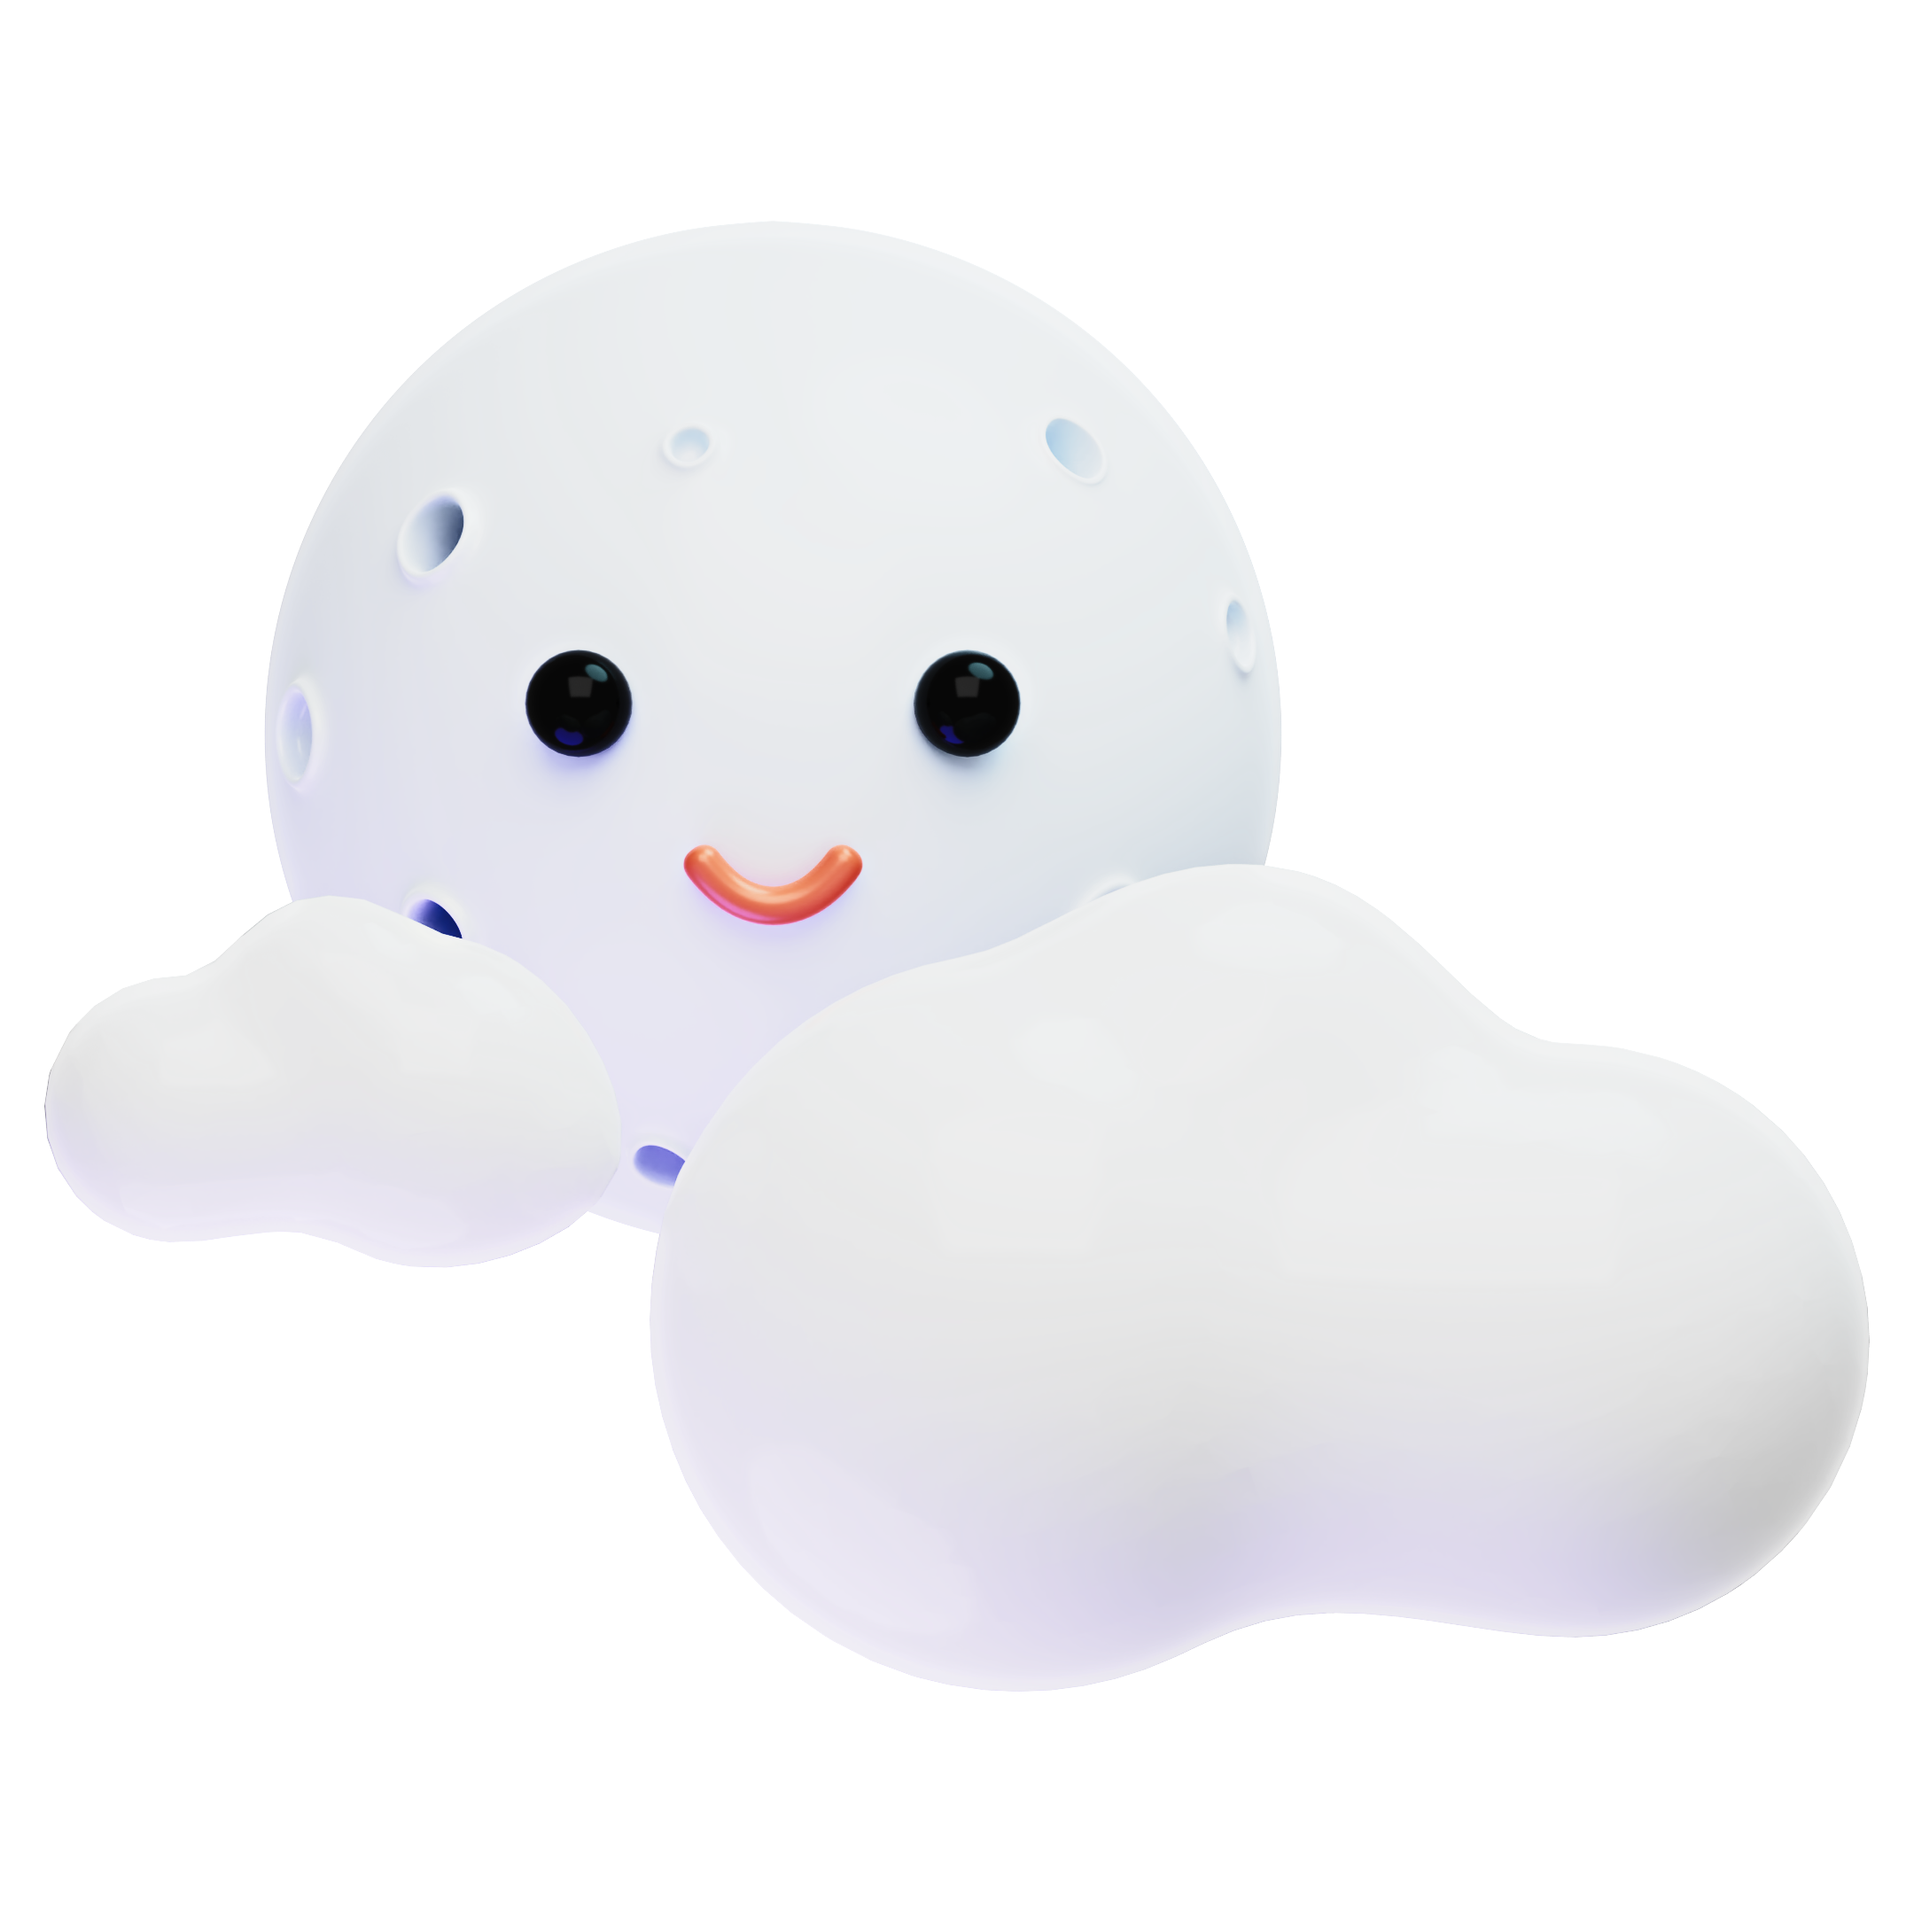
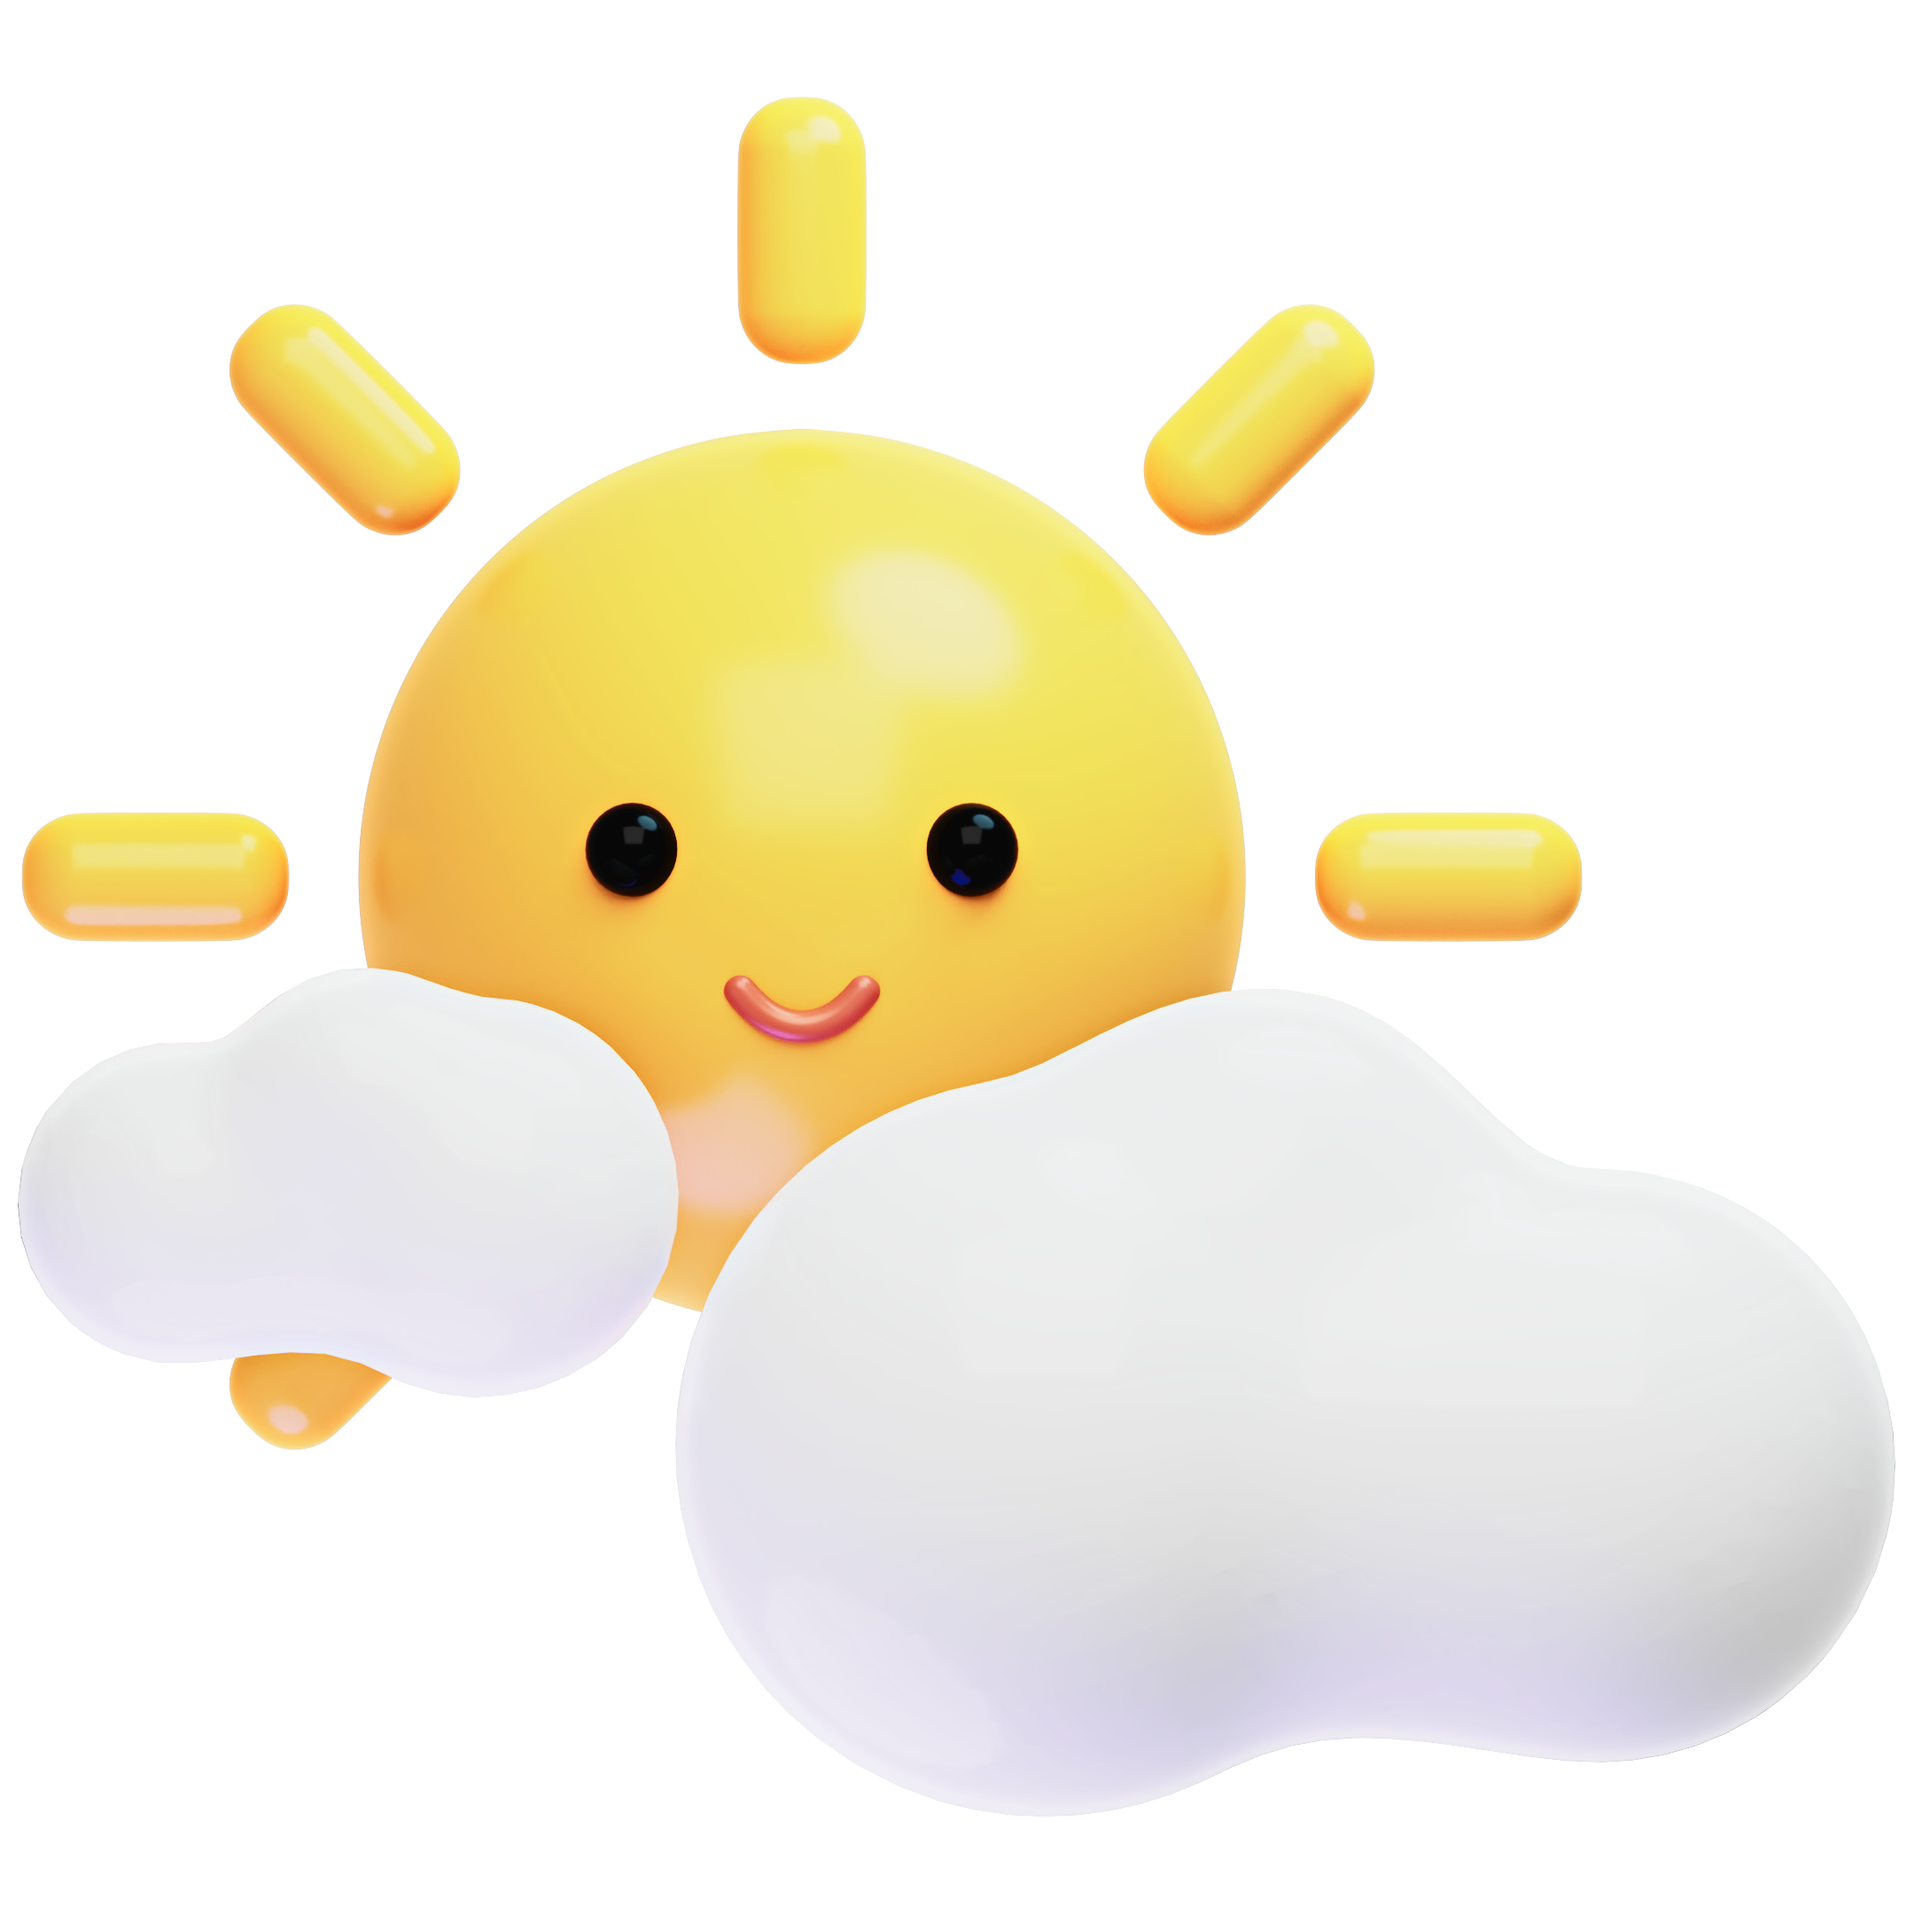
update

Changed region(s): [[0.0, 0.031, 0.8375, 0.7755], [0.3722, 0.6204, 0.9926, 0.9616]]

diff --git a/src/app/page.js b/src/app/page.js
@@ -1,15 +1,13 @@
-"use client"
-import { useEffect, useState } from "react";
-import react from "react";
+"use client";
+import { useState } from "react";
 
 export default function WeatherApp() {
   const [city, setCity] = useState("");
   const [weather, setWeather] = useState(null);
   const [error, setError] = useState("");
 
+  const API_KEY = "408d4e797f164849c68729e28200d6ad";
 
-
-  const API_KEY = "408d4e797f164849c68729e28200d6ad"
   const fetchWeather = async () => {
     if (!city) {
       setError("Please enter a city name.");
@@ -18,70 +16,134 @@ export default function WeatherApp() {
     setError(""); 
     try {
       const response = await fetch(
+      
         `https://api.openweathermap.org/data/2.5/weather?q=${city}&units=metric&appid=${API_KEY}`
       );
       if (!response.ok) {
         throw new Error("City not found");
       }
       const data = await response.json();
-      console.log("Weather Data:", data); 
       setWeather(data);
+      console.log(data)
     } catch (err) {
       setError(err.message);
       setWeather(null);
+    
+    }
+  }
+  
+
+  const getWeatherImage = (weatherCondition) => {
+    switch ( weatherCondition) {
+      case "Clear":
+        return "sun.png"; 
+      case "Clouds":
+        return "Clouds.png"; 
+      case "Rain":
+        return "Rain.png"; 
+      case "Snow":
+        return "snow.png"; 
+      case "Thunderstorm":
+        return "thunderstorm.png"; 
+      case "Drizzle":
+        return "Rain.png"; 
+      default:
+        return "sun.png"; 
     }
   };
-  
-
-  
 
 
-  // useEffect(() => {
-  //   async function fetchData() {
-  //     const API_KEY = process.env.NEXT_PUBLIC_WEATHER_API_KEY; // Store the API key in an environment variable
-  //     const lat = 47.9077;
-  //     const lon = 106.8832;
-  //     const cityName;
+  const getNightImage = (weatherCondition) => {
+    switch ( weatherCondition) {
+      case "Clear":
+        return "Nightsun.png"; 
+      case "Clouds":
+        return "NightCloud.png"; 
+      case "Rain":
+        return "NightRain.png"; 
+      case "Snow":
+        return "Nightsnow.png"; 
+      case "Thunderstorm":
+        return "Nightthunderstorm.png"; 
+      case "Drizzle":
+        return "NightRain.png"; 
+      default:
+        return "Nightsun.png"; 
+    }
+  };
 
-  //     try {
-  //       const response = await fetch(
-  //         `https://api.openweathermap.org/data/2.5/weather?q={city name}&appid={API key}`
-  //       );
+    const handleKeyDown = (e) => {
+      if (e.key === "Enter") {
+        fetchWeather();
+      }
 
-  //       if (!response.ok) {
-  //         throw new Error("Failed to fetch weather data");
-  //       }
-
-  //       const data = await response.json();
-  //       setWeatherData(data);
-  //     } catch (error) {
-  //       setError(error.message);
-  //     }
-  //   }
-
-  //   fetchData();
-  // }, []);
+  };
 
   return (
-<div className="w-full h-screen z-0 bg-black  flex overflow-x-hidden overflow-y-hidden"> 
-<div className="justify-center items-center flex"> 
-
-  <div className="rounded-lg bg-weather w-night-800 h-night-1200 top-40 left-36  z-10 flex justify-center  items-center "> 
-    <input onChange={(e) => setCity(e.target.value)}  value={city} placeholder="Enter a city" className="absolute z-10  h-input w-input left-inputLeft top-7 rounded-lg value={city}"></input>
-    <button onClick={fetchWeather}  className="absolute top-1">Get Weather</button>
-    <div className="  bg-white bg-opacity-75 h-city w-city justify-self-center align-self justify-center items-center flex rounded-xl relative" >
-     <div className="  text-black bg-custom-gradient bg-clip-text text-transparent absolute font-bold text-city top-cityTop left-cityLeft ">{weather.name}</div> 
-     <h1 className=" text-9xl absolute font-bold  bottom-temp left-10 bg-gradient-to-r from-slate-400 via-slate-800 to-slate-900 bg-clip-text text-transparent"> {Math.round(weather.main.temp)}°C</h1>
-     <div className="text-mood font-bold text-moods bottom-moodBottom left-moodLeft absolute">{weather.weather[0].main}</div>
-     <img className=" absolute w-64 h-64 bottom-image-bottom" src="sun.png"></img>
+    <div className="w-full h-screen z-0 bg-black flex overflow-x-hidden justify-center overflow-y-hidden flex">
+      <div className="justify-center items-center flex">
+        <div className="rounded-lg bg-weather w-night-800 h-night-1200 top-40 left-36 z-10 flex justify-center items-center ">
+          <input
+            onChange={(e) => setCity(e.target.value)}
+            value={city}
+            onKeyDown={handleKeyDown}
+            placeholder="Search"
+            className="absolute z-10 h-input w-input left-input Left top-7 rounded-3xl box-shadow: 0px 12px 24px 0px #0000000F font-xl text-black text-3xl focus:outline-none"
+          />
+          {/* <button
+            onClick={fetchWeather}
+            className="absolute top-1 bg-blue-500 text-white px-4 py-2 rounded-lg"
+          >
+            Get Weather
+          </button> */}
+          {error && <div className="text-red-500 absolute top-16">{error}</div>}
+          {weather && (
+            <div className="bg-white bg-opacity-75 h-city w-city flex justify-center items-center rounded-xl relative">
+              <div className="text-black bg-custom-gradient bg-clip-text text-transparent absolute font-bold text-city top-cityTop left-cityLeft">
+                {weather.name}
+              </div>
+              <h1 className="text-9xl absolute font-bold bottom-temp left-10 bg-gradient-to-r from-slate-400 via-slate-800 to-slate-900 bg-clip-text text-transparent text-black">
+                {Math.round(weather.main.temp)}°
+              </h1>
+              <div className="text-mood font-bold text-moods bottom-moodBottom left-moodLeft absolute">
+                {weather.weather[0].main}
+              </div>
+              <img
+                className="absolute w-64 h-64 bottom-image-bottom"
+                src={getWeatherImage(weather.weather[0].main)}></img>
+            </div>
+          )}
+        </div>
+        <div className="rounded-lg bg-nightColor h-night-1200 w-night-800 right-36 top-40 my-28 z-10 top-40 left-36 z-10 flex justify-center items-center ">
+       
+          {/* <button
+            onClick={fetchWeather}
+            className="absolute top-1 bg-blue-500 text-white px-4 py-2 rounded-lg"
+          >
+            Get Weather
+          </button> */}
+          {error && <div className="text-red-500 absolute top-16">{error}</div>}
+          {weather && (
+            <div className="bg-night bg-opacity-75 h-city w-city flex justify-center items-center rounded-xl relative">
+              <div className="text-white bg-custom-gradient bg-clip-text text-transparent absolute font-bold text-city top-cityTop left-cityLeft">
+                {weather.name}
+              </div>
+              <h1 className="text-9xl absolute font-bold bottom-temp left-10 bg-gradient-to-r from-slate-400 via-slate-800 to-slate-900 bg-clip-text text-transparent text-white">
+                {Math.round(weather.main.temp)}°
+              </h1>
+              <div className="text-purple font-bold text-moods bottom-moodBottom left-moodLeft absolute">
+                {weather.weather[0].main}
+              </div>
+              <img
+                className="absolute w-64 h-64 bottom-image-bottom"
+                src={getNightImage(weather.weather[0].main)}></img>
+            </div>
+          )}
+          
+        
+        </div>
       </div>
-  </div>
-  <div className=" rounded-lg bg-nightColor h-night-1200 w-night-800 right-36 top-40 my-28 z-10 ">
-  </div>
-  </div>
-</div>
-
+    </div>
   );
 
-
-};
+}
